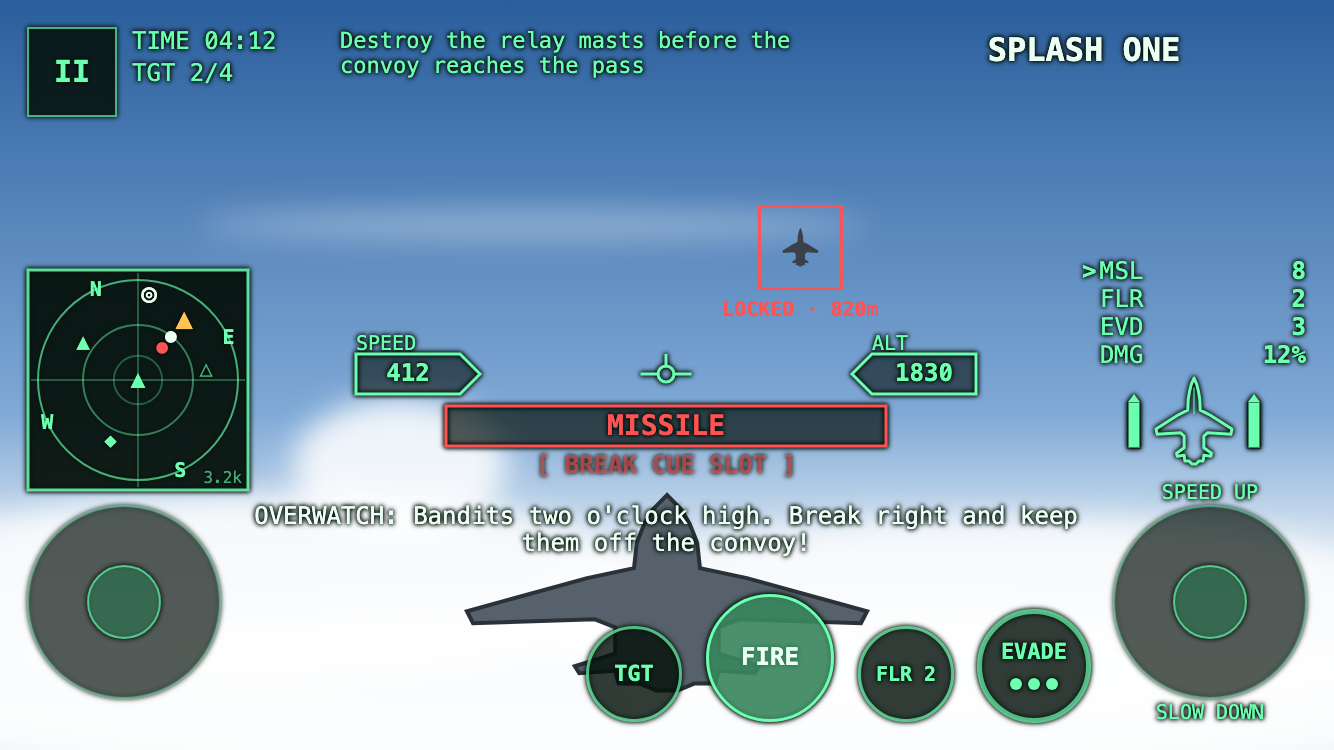
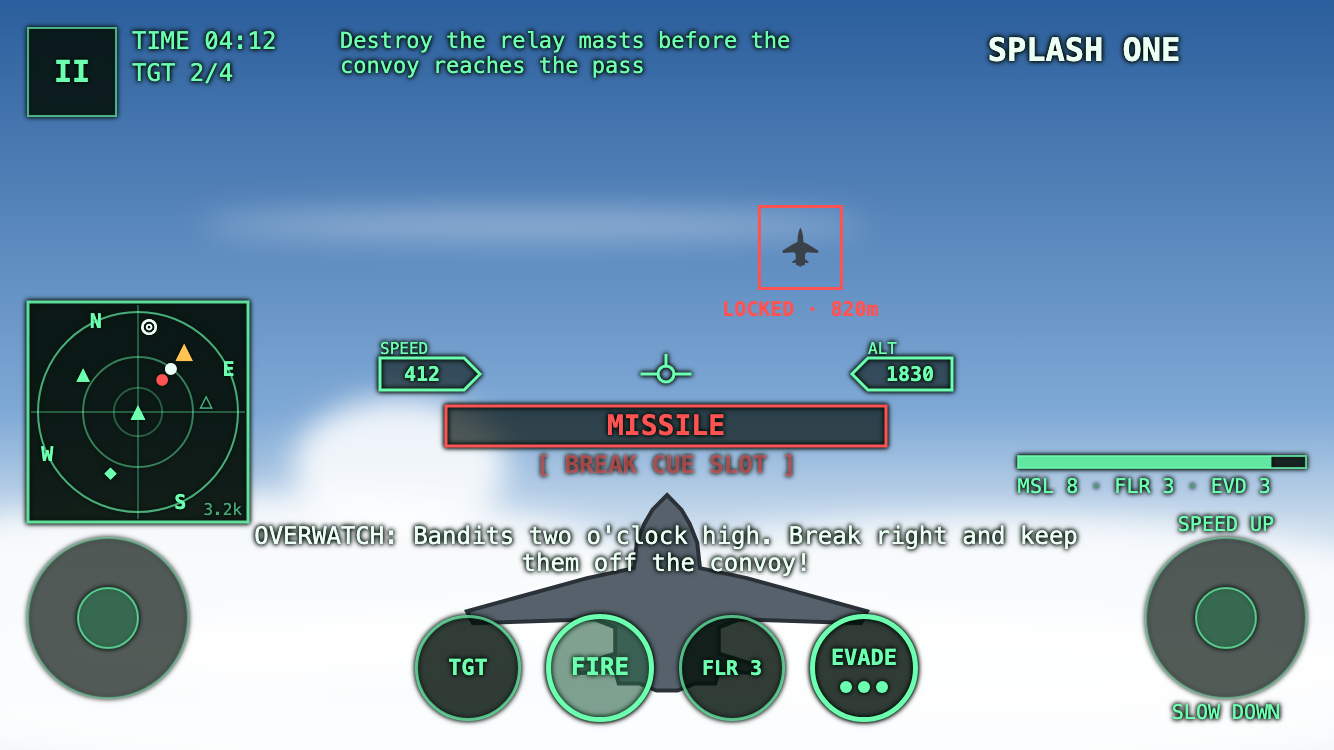
docs(design): re-render HUD mocks for the slimmed HUD, add owner feedback shot
Adds 568x320 and 706x267 touch mocks; the mock tool now draws the hull bar
and ammo line and the same-size button row, and keeps its own copy of the
Kestrel outline for the backdrop jets.

diff --git a/tools/render-hud-mock.ts b/tools/render-hud-mock.ts
@@ -16,8 +16,18 @@ const luauMath = Object.assign(Object.create(Math), {
 	format: (pattern: string, ...values: number[]) => pattern.replace(/%02d/g, () => String(Math.floor(values.shift() ?? 0)).padStart(2, "0")),
 };
 const { getHudLayout, getKillMarkerLayout } = await import("../src/shared/UILayout");
-const { kestrelOutline, weaponRows, railsReady, clockLines } = await import("../src/shared/HudInstruments");
+const { statusLine, hullFraction, hullTone, clockLines, STATUS_SEPARATOR } = await import("../src/shared/HudInstruments");
 type Rect = { x: number; y: number; width: number; height: number };
+
+// The Kestrel's top-view outline (right half, studs from tools/build-aircraft.py) for the backdrop jets only.
+const KESTREL_RIGHT_HALF: [number, number][] = [
+	[0, -13], [0.82, -11.1], [1.3, -9.2], [1.72, -6.8], [1.88, -3.5], [4.55, -2.2], [11.4, 2.1], [11.05, 3.65], [4.1, 3.15],
+	[2.95, 4.2], [2.95, 7.6], [5.25, 9.25], [5.0, 10.15], [2.95, 9.85], [2.75, 11.5], [1.55, 11.5], [0.6, 12.4], [0, 12.4],
+];
+function kestrelOutline(): [number, number][] {
+	const unit = ([x, y]: [number, number]): [number, number] => [(x + 11.4) / 22.8, (y + 13) / 26];
+	return [...KESTREL_RIGHT_HALF.map(unit), ...KESTREL_RIGHT_HALF.slice(1, -1).reverse().map(([x, y]) => unit([-x, y]))];
+}
 type Mode = "touch" | "keyboard" | "gamepad";
 
 const root = resolve(import.meta.dir, "..");
@@ -34,6 +44,8 @@ const SHOTS: Shot[] = [
 	{ file: "hud-mock-1920x854-keyboard.png", screenWidth: 1920, screenHeight: 854, insetLeft: 0, mode: "keyboard", scale: 1 },
 	{ file: "hud-mock-844x390-touch.png", screenWidth: 844, screenHeight: 390, insetLeft: 44, mode: "touch", scale: 2 },
 	{ file: "hud-mock-667x375-touch.png", screenWidth: 667, screenHeight: 375, insetLeft: 0, mode: "touch", scale: 2 },
+	{ file: "hud-mock-568x320-touch.png", screenWidth: 568, screenHeight: 320, insetLeft: 0, mode: "touch", scale: 2 },
+	{ file: "hud-mock-706x267-touch.png", screenWidth: 706, screenHeight: 267, insetLeft: 0, mode: "touch", scale: 2 },
 	{ file: "hud-mock-320x182-touch.png", screenWidth: 320, screenHeight: 182, insetLeft: 0, mode: "touch", scale: 3 },
 ];
 
@@ -70,8 +82,8 @@ function render(shot: Shot): string {
 		const captioned = r.height >= m.caption + m.box, top = captioned ? m.caption : 0, b = r.height - top, tip = Math.floor(b / 2);
 		const y0 = r.y + top, y1 = y0 + b, outer = right ? r.x : r.x + r.width, inner = right ? r.x + r.width - tip : r.x + tip, point = right ? r.x + r.width : r.x;
 		svg.push(`<polygon points="${outer},${y0} ${inner},${y0} ${point},${y0 + b / 2} ${inner},${y1} ${outer},${y1}" fill="${SHADOW}" fill-opacity="0.2" stroke="${GREEN}" stroke-width="1.5"/>`);
-		if (captioned) html.push(text({ x: right ? r.x : r.x + tip, y: r.y, width: r.width - tip, height: top }, caption, m.label));
-		html.push(text({ x: right ? r.x + 2 : r.x + tip + 2, y: y0, width: r.width - tip - 4, height: b }, captioned ? value : `${caption[0]} ${value}`, m.text, { align: "center", bold: true }));
+		if (captioned) html.push(text({ x: right ? r.x : r.x + tip, y: r.y, width: r.width - tip, height: top }, caption, m.instrumentLabel));
+		html.push(text({ x: right ? r.x + 2 : r.x + tip + 2, y: y0, width: r.width - tip - 4, height: b }, captioned ? value : `${caption[0]} ${value}`, m.instrumentText, { align: "center", bold: true }));
 	}
 	if (hud.alert !== hud.callout) {
 		svg.push(`<rect x="${hud.alert.x}" y="${hud.alert.y}" width="${hud.alert.width}" height="${hud.alert.height}" fill="${SHADOW}" fill-opacity="0.25" stroke="${RED}" stroke-width="1.5"/>`);
@@ -95,27 +107,15 @@ function render(shot: Shot): string {
 		blip(-0.25, 0.55, "◆", GREEN, 10); blip(0.1, -0.78, "◎", WHITE, 13); blip(0.22, -0.28, "•", RED, 16); blip(0.3, -0.38, "•", WHITE, 16);
 		html.push(text({ x: r.x + r.width - 43, y: r.y + r.height - 11, width: 40, height: 10 }, "3.2k", Math.max(8, m.label - 2), { color: DIM, align: "right" }));
 	}
-	// Bottom-right weapon panel.
-	const rows = weaponRows({ missiles: 8, missileCooldown: 0, special: "FLR", specialCharges: 2, specialCooldown: 0, specialActive: 0, evadeCharges: 3, health: 88 });
-	const rowText = hud.weapons.text ?? m.text;
-	const caretWidth = Math.floor(rowText * 0.8);
-	rows.forEach((row, index) => {
-		const r = hud.weapons.rows[index];
-		if (row.caret) html.push(text({ ...r, width: caretWidth }, ">", rowText, { bold: true }));
-		html.push(text({ ...r, x: r.x + caretWidth, width: r.width - caretWidth }, row.label, rowText, { color: TONE[row.tone] }));
-		html.push(text({ ...r, x: r.x + caretWidth, width: r.width - caretWidth }, row.value, rowText, { color: TONE[row.tone], align: "right", bold: true }));
-	});
-	if (hud.weapons.silhouette) {
-		const s = hud.weapons.silhouette;
-		svg.push(`<polygon points="${kestrelOutline().map(([x, y]) => `${s.x + x * s.width},${s.y + y * s.height}`).join(" ")}" fill="none" stroke="${GREEN}" stroke-width="1.5" stroke-linejoin="round"/>`);
-		svg.push(line(s.x + s.width / 2, s.y + s.height * 0.12, s.x + s.width / 2, s.y + s.height * 0.4, GREEN, 1, 0.5));
-		const ready = railsReady(8, 0);
-		hud.weapons.rails!.forEach((rail, index) => {
-			const nose = Math.floor(rail.width * 1.4), fill = ready[index] ? GREEN : "none";
-			svg.push(`<rect x="${rail.x}" y="${rail.y + nose / 2}" width="${rail.width}" height="${rail.height - nose / 2}" fill="${fill}" stroke="${ready[index] ? SHADOW : DIM}" stroke-opacity="0.5"/>`);
-			svg.push(`<polygon points="${rail.x + rail.width / 2},${rail.y} ${rail.x + rail.width},${rail.y + nose / 2} ${rail.x},${rail.y + nose / 2}" fill="${fill}"/>`);
-		});
-	}
+	// Hull bar (88%: green) and the one ammo line under it, shrunk to fit like the TextScaled label in game.
+	const status = hud.status, health = 88;
+	const hullColor = TONE[hullTone(health)];
+	svg.push(`<rect x="${status.bar.x}" y="${status.bar.y}" width="${status.bar.width}" height="${status.bar.height}" fill="${SHADOW}" fill-opacity="0.4" stroke="${hullColor}" stroke-opacity="0.75"/>`);
+	svg.push(`<rect x="${status.bar.x}" y="${status.bar.y}" width="${status.bar.width * hullFraction(health)}" height="${status.bar.height}" fill="${hullColor}" fill-opacity="0.9"/>`);
+	const cells = statusLine({ missiles: 8, missileCooldown: 0, special: "FLR", specialCharges: 3, specialCooldown: 0, specialActive: 0, evadeCharges: 3 });
+	const lineText = cells.map((cell) => cell.text).join(STATUS_SEPARATOR);
+	const lineSize = Math.min(status.text, Math.floor(status.line.width / (lineText.length * 0.6)));
+	html.push(`<div class="t" style="${box(status.line)}font-size:${lineSize}px;font-weight:500;justify-content:center;white-space:pre;"><span>${cells.map((cell) => `<span style="color:${TONE[cell.tone]}">${escape(cell.text)}</span>`).join(`<span style="color:${DIM}">${STATUS_SEPARATOR}</span>`)}</span></div>`);
 	// Radio subtitle (or, without a row, it shares the objective line) and the kill callout.
 	if (hud.subtitle) html.push(text(hud.subtitle, "OVERWATCH: Bandits two o'clock high. Break right and keep them off the convoy!", m.scale === "large" ? m.text : 12, { color: WHITE, align: "center", valign: "bottom", wrap: true }));
 	if (kill !== hud.alert) html.push(text(kill, "SPLASH ONE", 16, { color: WHITE, align: "center", bold: true }));
@@ -129,11 +129,12 @@ function render(shot: Shot): string {
 		}
 		if (touch.throttleUpLabel) html.push(text(touch.throttleUpLabel, "SPEED UP", 10, { align: "center" }));
 		if (touch.throttleDownLabel) html.push(text(touch.throttleDownLabel, "SLOW DOWN", 10, { align: "center" }));
-		for (const [r, label, filled, size] of [[touch.target, "TGT", false, 11], [touch.missile, "FIRE", true, 12], [touch.special, "FLR 2", false, 10], [touch.evade, "EVADE", false, 11]] as [Rect, string, boolean, number][]) {
+		// FIRE (no lock yet) is primary by its green tint and heavier ring, not by size.
+		for (const [r, label, primary, size] of [[touch.target, "TGT", false, 11], [touch.missile, "FIRE", true, 12], [touch.special, "FLR 3", false, 10], [touch.evade, "EVADE", false, 11]] as [Rect, string, boolean, number][]) {
 			const R = r.width / 2;
-			svg.push(`<circle cx="${r.x + R}" cy="${r.y + R}" r="${R - 0.75}" fill="${filled ? GREEN : SHADOW}" fill-opacity="${filled ? 0.45 : 0.35}" stroke="${GREEN}" stroke-width="${label === "EVADE" ? 2.5 : 1.5}" stroke-opacity="${filled ? 1 : 0.7}"/>`);
-			html.push(text({ ...r, height: label === "EVADE" ? r.height * 0.75 : r.height }, label, size, { color: filled ? WHITE : GREEN, align: "center", bold: true }));
-			if (label === "EVADE") for (let pip = 0; pip < 3; pip++) svg.push(`<circle cx="${r.x + R + (pip - 1) * 9}" cy="${r.y + r.height * 0.66}" r="3" fill="${GREEN}"/>`);
+			svg.push(`<circle cx="${r.x + R}" cy="${r.y + R}" r="${R - 1.25}" fill="${primary ? GREEN : SHADOW}" fill-opacity="${primary ? 0.2 : 0.35}" stroke="${GREEN}" stroke-width="${primary || label === "EVADE" ? 2.5 : 1.5}" stroke-opacity="${primary || label === "EVADE" ? 1 : 0.7}"/>`);
+			html.push(text({ ...r, y: r.y + (label === "EVADE" ? r.height * 0.2 : 0), height: label === "EVADE" ? r.height * 0.4 : r.height }, label, size, { color: GREEN, align: "center", bold: true }));
+			if (label === "EVADE") for (let pip = 0; pip < 3; pip++) svg.push(`<circle cx="${r.x + R + (pip - 1) * 9}" cy="${r.y + r.height * 0.62 + 3}" r="3" fill="${GREEN}"/>`);
 		}
 	}
 	if (hud.hints && hud.hints.width > 0) html.push(text(hud.hints, "SPACE FIRE    TAB TARGET", 10, { align: "center", bold: true, color: WHITE }));
